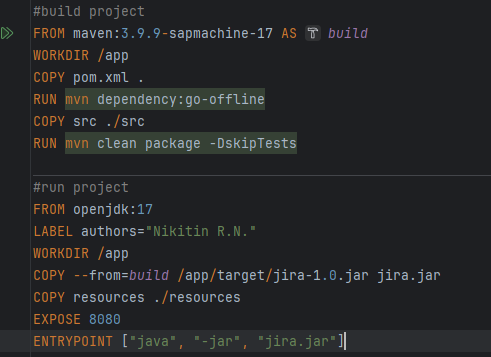
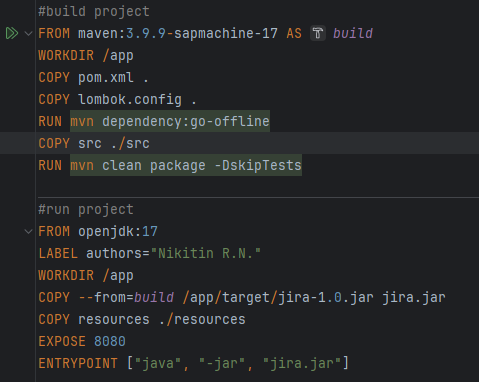
Task #5: add ProfileRestControllerTest

Changed region(s): [[0.0, 0.0, 0.7891, 0.4622], [0.0585, 0.493, 0.9353, 0.986]]

diff --git a/src/test/java/com/javarush/jira/profile/internal/web/ProfileRestControllerTest.java b/src/test/java/com/javarush/jira/profile/internal/web/ProfileRestControllerTest.java
@@ -1,8 +1,154 @@
 package com.javarush.jira.profile.internal.web;
 
 import com.javarush.jira.AbstractControllerTest;
+import com.javarush.jira.MatcherFactory;
+import com.javarush.jira.common.util.JsonUtil;
+import com.javarush.jira.login.internal.web.UserTestData;
+import com.javarush.jira.profile.ProfileTo;
+import com.javarush.jira.profile.internal.ProfileMapper;
+import com.javarush.jira.profile.internal.ProfileRepository;
+import com.javarush.jira.profile.internal.model.Profile;
+import org.junit.jupiter.api.Test;
+import org.springframework.beans.factory.annotation.Autowired;
+import org.springframework.http.MediaType;
+import org.springframework.security.test.context.support.WithAnonymousUser;
+import org.springframework.security.test.context.support.WithUserDetails;
+
+import static com.javarush.jira.profile.internal.web.ProfileTestData.*;
+import static org.springframework.test.web.servlet.request.MockMvcRequestBuilders.get;
+import static org.springframework.test.web.servlet.request.MockMvcRequestBuilders.put;
+import static org.springframework.test.web.servlet.result.MockMvcResultMatchers.content;
+import static org.springframework.test.web.servlet.result.MockMvcResultMatchers.status;
 
 
 class ProfileRestControllerTest extends AbstractControllerTest {
 
+    private static final String REST_URL = ProfileRestController.REST_URL;
+    private static final MatcherFactory.Matcher<ProfileTo> PROFILE_TO_MATCHER =
+            MatcherFactory.usingIgnoringFieldsComparator(ProfileTo.class, "id");
+
+    @Autowired
+    private ProfileRepository repository;
+
+    @Autowired
+    private ProfileMapper profileMapper;
+
+    @Test
+    @WithAnonymousUser
+    void get_WhenUnauthenticated_ReturnsUnauthorized() throws Exception {
+        perform(get(REST_URL))
+                .andExpect(status().isUnauthorized());
+    }
+
+    @Test
+    @WithUserDetails(value = UserTestData.USER_MAIL)
+    void get_WhenAuthenticated_ReturnsProfileUser() throws Exception {
+        perform(get(REST_URL))
+                .andExpectAll(status().isOk(),
+                        content().contentTypeCompatibleWith(MediaType.APPLICATION_JSON),
+                        PROFILE_TO_MATCHER.contentJson(USER_PROFILE_TO));
+    }
+
+    @Test
+    @WithUserDetails(value = UserTestData.GUEST_MAIL)
+    void get_WhenAuthenticated_ReturnsProfileGuest() throws Exception {
+        perform(get(REST_URL))
+                .andExpectAll(status().isOk(),
+                        content().contentTypeCompatibleWith(MediaType.APPLICATION_JSON),
+                        PROFILE_TO_MATCHER.contentJson(GUEST_PROFILE_EMPTY_TO));
+    }
+
+    @Test
+    @WithAnonymousUser
+    void update_WhenUnauthenticated_ReturnsUnauthorized() throws Exception {
+        perform(put(REST_URL)
+                .contentType(MediaType.APPLICATION_JSON)
+                .content("{}"))
+                .andExpect(status().isUnauthorized());
+    }
+
+    @Test
+    @WithUserDetails(value = UserTestData.USER_MAIL)
+    void update_WithValidData_ReturnsNoContent() throws Exception {
+        ProfileTo updatedTo = getUpdatedTo();
+        perform(put(REST_URL)
+                .contentType(MediaType.APPLICATION_JSON)
+                .content(JsonUtil.writeValue(updatedTo)))
+                .andExpect(status().isNoContent());
+    }
+
+    @Test
+    @WithUserDetails(value = UserTestData.USER_MAIL)
+    void update_WithInvalidData_Returns422() throws Exception {
+        ProfileTo invalidTo = getInvalidTo();
+        perform(put(REST_URL)
+                .contentType(MediaType.APPLICATION_JSON)
+                .content(JsonUtil.writeValue(invalidTo)))
+                .andExpect(status().isUnprocessableEntity());
+    }
+
+    @Test
+    @WithUserDetails(value = UserTestData.USER_MAIL)
+    void update_WithUnknownNotification_Returns422() throws Exception {
+        ProfileTo withUnknownNotificationTo = getWithUnknownNotificationTo();
+        perform(put(REST_URL)
+                .contentType(MediaType.APPLICATION_JSON)
+                .content(JsonUtil.writeValue(withUnknownNotificationTo)))
+                .andExpect(status().isUnprocessableEntity());
+    }
+
+    @Test
+    @WithUserDetails(value = UserTestData.USER_MAIL)
+    void update_WithUnknownContactTo_Returns422() throws Exception {
+        ProfileTo withUnknownContactTo = getWithUnknownContactTo();
+        perform(put(REST_URL)
+                .contentType(MediaType.APPLICATION_JSON)
+                .content(JsonUtil.writeValue(withUnknownContactTo)))
+                .andExpect(status().isUnprocessableEntity());
+    }
+
+    @Test
+    @WithUserDetails(value = UserTestData.USER_MAIL)
+    void update_WithContactHtmlUnsafeTo_Returns422() throws Exception {
+        ProfileTo withContactHtmlUnsafeTo = getWithContactHtmlUnsafeTo();
+        perform(put(REST_URL)
+                .contentType(MediaType.APPLICATION_JSON)
+                .content(JsonUtil.writeValue(withContactHtmlUnsafeTo)))
+                .andExpect(status().isUnprocessableEntity());
+    }
+
+    @Test
+    @WithUserDetails(value = UserTestData.USER_MAIL)
+    void update_WithNewDataProfile() throws Exception {
+        long userId = UserTestData.USER_ID;
+        Profile profileToExpected = getUpdated(userId);
+        ProfileTo profileTo = profileMapper.toTo(profileToExpected);
+
+        perform(put(REST_URL)
+                .contentType(MediaType.APPLICATION_JSON)
+                .content(JsonUtil.writeValue(profileTo)))
+                .andExpect(status().isNoContent()
+                );
+
+        Profile profileToActual = repository.findById(userId).orElseThrow();
+        ProfileTestData.PROFILE_MATCHER.assertMatch(profileToActual, profileToExpected);
+    }
+
+    @Test
+    @WithUserDetails(value = UserTestData.USER_MAIL)
+    void create_newProfile() throws Exception {
+        ProfileTo newTo = getNewTo();
+
+        perform(put(REST_URL)
+                .contentType(MediaType.APPLICATION_JSON)
+                .content(JsonUtil.writeValue(newTo)))
+                .andExpect(status().isNoContent()
+                );
+
+        long userId = UserTestData.USER_ID;
+        Profile profileToActual = repository.getExisted(userId);
+        Profile profileToExpected = ProfileTestData.getNew(userId);
+
+        ProfileTestData.PROFILE_MATCHER.assertMatch(profileToActual, profileToExpected);
+    }
 }

diff --git a/README.md b/README.md
@@ -48,10 +48,12 @@
     путь к файлу `src/main/resources/application-secrets.yaml`  <details><summary style="color: skyblue;">Показать скрин файла</summary>![img.png](README_img/img.png)</details>
 
 4. ❌**Переделать тесты так, чтоб во время тестов использовалась in memory БД (H2), а не PostgreSQL.**
-5. ❌**Написать тесты для всех публичных методов контроллера ProfileRestController**
+5. ✅**Написать тесты для всех публичных методов контроллера ProfileRestController**  
+   [открыть ProfileRestControllerTest](https://github.com/Woody-rn/project-final/blob/nikitin/src/test/java/com/javarush/jira/profile/internal/web/ProfileRestControllerTest.java)  
+    ![img.png](README_img/img_ProfileRestControllerTest.png)
 6. ✅**Сделать рефакторинг метода com.javarush.jira.bugtracking.attachment.FileUtil#upload чтоб он использовал современный
    подход для работы с файловой системмой**  
-    Код переписан  
+    Код переписан [открыть FileUtil#upload](https://github.com/Woody-rn/project-final/blob/nikitin/src/main/java/com/javarush/jira/bugtracking/attachment/FileUtil.java)  
     ![img.png](README_img/img_FileUtil.png)
 7. ❌**Добавить новый функционал: добавления тегов к задаче (REST API + реализация на сервисе)**
 8. ❌**Добавить подсчет времени сколько задача находилась в работе и тестировании**
